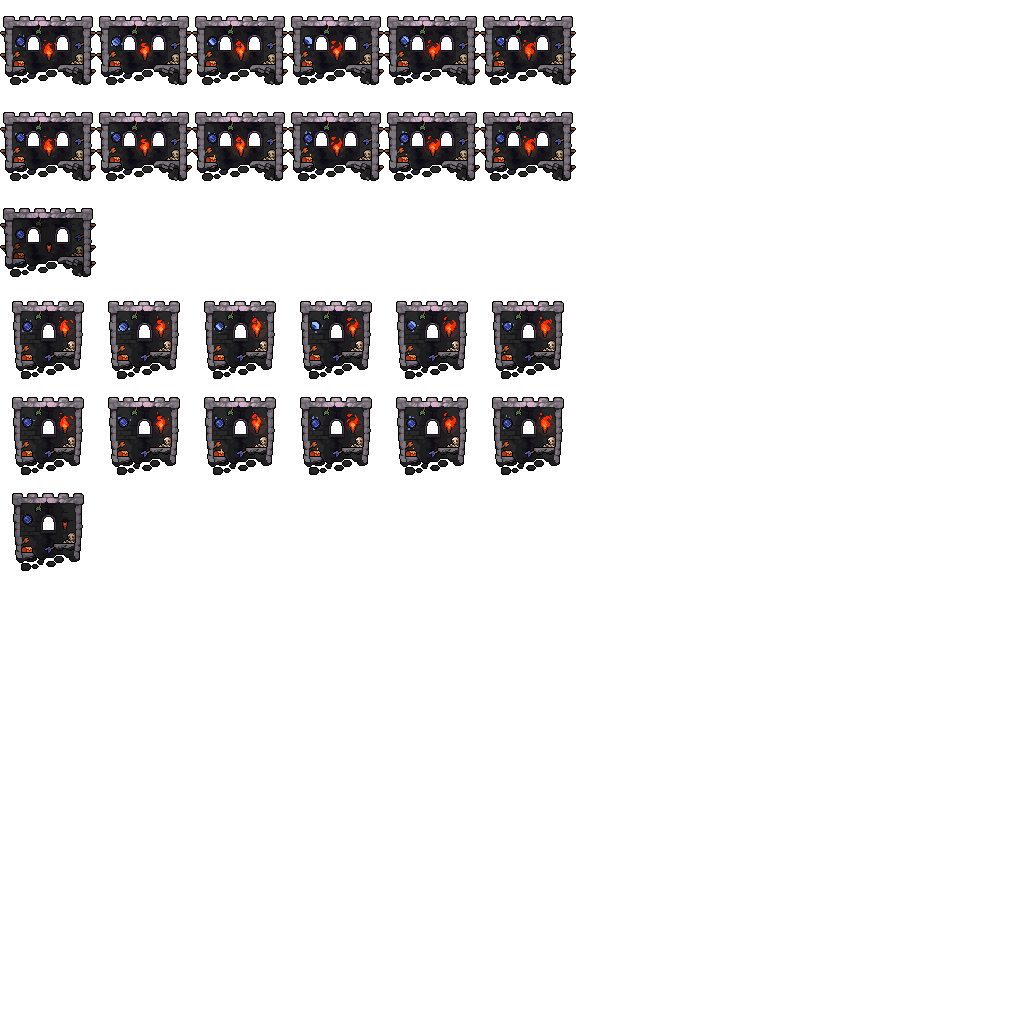
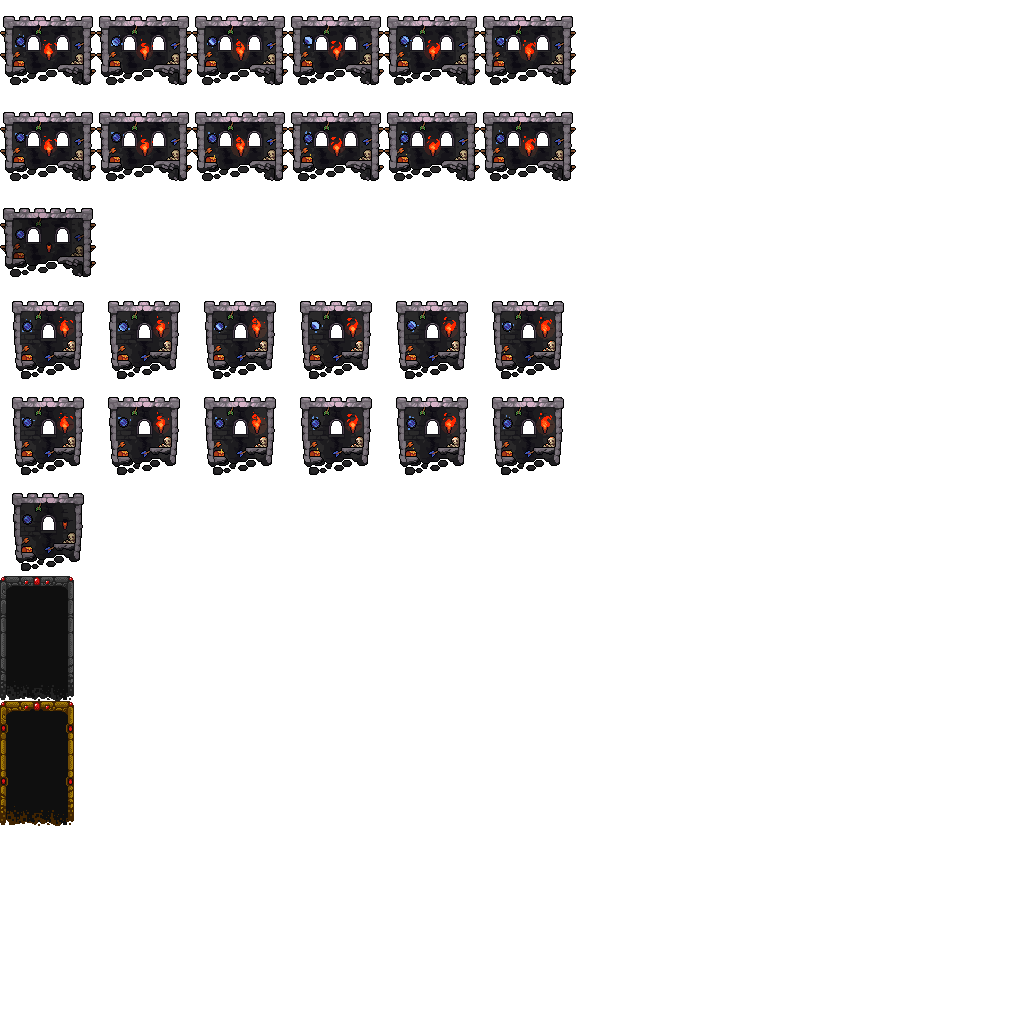
SmallVersusPlayerMatchResults

Changed region(s): [[0.0, 0.5625, 0.0938, 0.8125]]

diff --git a/Core/SmallVersusPlayerMatchResults.cs b/Core/SmallVersusPlayerMatchResults.cs
@@ -1,0 +1,141 @@
+using System;
+using System.Collections;
+using System.Collections.Generic;
+using Microsoft.Xna.Framework;
+using Monocle;
+using MonoMod.Utils;
+using TowerFall;
+
+namespace EightPlayerMod 
+{
+    public class SmallVersusPlayerMatchResults : VersusPlayerMatchResults
+    {
+        public SmallVersusPlayerMatchResults(Session session, VersusMatchResults matchResults, int playerIndex, Vector2 tweenFrom, Vector2 tweenTo, List<AwardInfo> awards) 
+            :base(session, matchResults, playerIndex, tweenFrom, tweenTo, awards)
+        {
+            
+        }
+
+        public static void Load() 
+        {
+            On.TowerFall.VersusPlayerMatchResults.DoSequence += DoSequence_patch;
+        }
+
+        public static void Unload() 
+        {
+            On.TowerFall.VersusPlayerMatchResults.DoSequence -= DoSequence_patch;
+        }
+
+        private static void DoSequence_patch(On.TowerFall.VersusPlayerMatchResults.orig_DoSequence orig, VersusPlayerMatchResults self)
+        {
+            if (self is SmallVersusPlayerMatchResults result) 
+            {
+                result.Add(new Coroutine(result.SmallSequence()));
+                return;
+            }
+            orig(self);
+        }
+
+        private IEnumerator SmallSequence() 
+        {
+            var selfDynamic = DynamicData.For(this);
+            var portrait = selfDynamic.Get<Image>("portrait");
+            var session = selfDynamic.Get<Session>("session");
+            var playerIndex = selfDynamic.Get<int>("playerIndex");
+            var awards = selfDynamic.Get<List<AwardInfo>>("awards");
+            yield return 30;
+			Vector2 end2 = portrait.Position + Vector2.UnitY * (portrait.Height / 2f + 2f);
+			Vector2 start2 = end2 + Vector2.UnitX * -20f;
+			ulong kills = session.MatchStats[playerIndex].Kills.Kills;
+			ulong deaths = session.MatchStats[playerIndex].Deaths.Total - session.MatchStats[playerIndex].Deaths.Environment;
+
+            var killDeathSelf = new OutlineText(TFGame.Font, $"{kills}/{deaths}");
+			killDeathSelf.Color = Color.Transparent;
+			killDeathSelf.OutlineColor = Color.Transparent;
+			Add(killDeathSelf);
+			Tween tween = Tween.Create(Tween.TweenMode.Oneshot, Ease.CubeOut, 30, true);
+			tween.OnUpdate = delegate(Tween t)
+			{
+				killDeathSelf.Position = Vector2.Lerp(start2, end2, t.Eased);
+				killDeathSelf.Color = Color.White * t.Eased;
+				killDeathSelf.OutlineColor = Color.Black * t.Eased * t.Eased;
+			};
+            Add(tween);
+
+			yield return 30;
+			int num5;
+			for (int i = 0; i < awards.Count; i = num5 + 1)
+			{
+				AwardInfo awardInfo = awards[i];
+				Vector2 iconEnd = portrait.Position + Vector2.UnitY * (portrait.Height / 2f + 16f + (float)(i * 15));
+				Vector2 iconStart = iconEnd + Vector2.UnitX * -20f;
+				Sprite<int> icon = awardInfo.GetSprite(false);
+				icon.CenterOrigin();
+				icon.Position = iconStart;
+				icon.Scale = Vector2.One * 1.5f;
+				icon.Color = Color.Transparent;
+				icon.Play(0, false);
+				int anim = 0;
+				icon.OnAnimationComplete = delegate(Sprite<int> s)
+				{
+					if (!icon.Looping)
+					{
+						Sprite<int> icon2 = icon;
+						int num6 = anim + 1;
+						anim = num6;
+						icon2.Play(num6, false);
+					}
+				};
+				this.Add(icon);
+				tween = Tween.Create(Tween.TweenMode.Oneshot, Ease.CubeOut, 20, true);
+				tween.OnUpdate = delegate(Tween t)
+				{
+					icon.Color = Color.White * t.Eased;
+					icon.Rotation = MathHelper.Lerp(-0.34906584f, 0f, t.Eased);
+					icon.Position = Vector2.Lerp(iconStart, iconEnd, t.Eased);
+				};
+				tween.OnComplete = delegate(Tween t)
+				{
+					Tween tween2 = Tween.Create(Tween.TweenMode.Oneshot, Ease.CubeIn, 20, true);
+					tween2.OnUpdate = delegate(Tween tt)
+					{
+						icon.Scale = Vector2.One * MathHelper.Lerp(1.5f, 1f, tt.Eased);
+					};
+					Add(tween2);
+				};
+				Add(tween);
+				if (i == 0)
+				{
+					Sounds.sfx_statscreenReward1.Play(this.X, 1f);
+				}
+				else if (i == 1)
+				{
+					Sounds.sfx_statscreenReward2.Play(this.X, 1f);
+				}
+				else
+				{
+					Sounds.sfx_statscreenReward3.Play(this.X, 1f);
+				}
+				yield return 40;
+				num5 = i;
+			}
+			this.Finished = true;
+			yield break;
+        }
+
+        public void AsSmall(bool won) 
+        {
+            var rect = this.GetFirst<DrawRectangle>();
+            Remove(rect);
+            var privateData = DynamicData.For(this);
+            var portrait = privateData.Get<Image>("portrait");
+            var gem = privateData.Get<Sprite<string>>("gem");
+            portrait.Scale = Vector2.One * 0.7f;
+            var bg = privateData.Get<Image>("bg");
+            bg.SwapSubtexture(EightPlayerModule.Instance.EightPlayerAtlas[won ? "portrait/gold" : "portrait/silver"]);
+            portrait.Position.Y -= 10f;
+            gem.Scale = Vector2.One * 0.7f;
+            gem.Position.Y += 5f;
+        }
+    }
+}

diff --git a/Core/TreasureSpawner.cs b/Core/TreasureSpawner.cs
@@ -263,12 +263,12 @@ namespace EightPlayerMod
                 {
                     array2 = new Vector2[6]
                     {
-                        new Vector2(100f, 70f),
-                        new Vector2(180f, 70f),
-                        new Vector2(260f, 70f),
-                        new Vector2(160f, 180f),
-                        new Vector2(240f, 180f),
-                        new Vector2(320f, 180f)
+                        new Vector2(100f, 105f),
+                        new Vector2(180f, 105f),
+                        new Vector2(260f, 105f),
+                        new Vector2(160f, 210f),
+                        new Vector2(240f, 210f),
+                        new Vector2(320f, 210f)
                     };
                     array = new Vector2[6];
                     for (int i = 0; i < 3; i++)
@@ -284,13 +284,13 @@ namespace EightPlayerMod
                 {
                     array2 = new Vector2[7]
                     {
-                        new Vector2(90f, 70f),
-                        new Vector2(170f, 70f),
-                        new Vector2(250f, 70f),
-                        new Vector2(330f, 70f),
-                        new Vector2(130f, 180f),
-                        new Vector2(210f, 180f),
-                        new Vector2(290f, 180f)
+                        new Vector2(90f, 105f),
+                        new Vector2(170f, 105f),
+                        new Vector2(250f, 105f),
+                        new Vector2(330f, 105f),
+                        new Vector2(130f, 210f),
+                        new Vector2(210f, 210f),
+                        new Vector2(290f, 210f)
                     };
                     array = new Vector2[7];
                     for (int k = 0; k < 4; k++)
@@ -310,14 +310,14 @@ namespace EightPlayerMod
                     }
                     array2 = new Vector2[8]
                     {
-                        new Vector2(70f, 70f),
-                        new Vector2(150f, 70f),
-                        new Vector2(230f, 70f),
-                        new Vector2(310f, 70f),
-                        new Vector2(110f, 180f),
-                        new Vector2(190f, 180f),
-                        new Vector2(270f, 180f),
-                        new Vector2(350f, 180f)
+                        new Vector2(70f, 105f),
+                        new Vector2(150f, 105f),
+                        new Vector2(230f, 105f),
+                        new Vector2(310f, 105f),
+                        new Vector2(110f, 210f),
+                        new Vector2(190f, 210f),
+                        new Vector2(270f, 210f),
+                        new Vector2(350f, 210f)
                     };
                     array = new Vector2[8];
                     for (int m = 0; m < 4; m++)
@@ -350,9 +350,21 @@ namespace EightPlayerMod
                 {
                     if (TFGame.Players[num2])
                     {
-                        VersusPlayerMatchResults versusPlayerMatchResults = new VersusPlayerMatchResults(session, self, num2, array[playerResults.Count], array2[playerResults.Count], awards[num2]);
-                        session.CurrentLevel.Add(versusPlayerMatchResults);
-                        playerResults.Add(versusPlayerMatchResults);
+                        if (TFGame.PlayerAmount >= 6) 
+                        {
+                            var versusPlayerMatchResults = new SmallVersusPlayerMatchResults(session, self, num2, array[playerResults.Count], array2[playerResults.Count], awards[num2]);
+                            var won = session.MatchStats[num2].Won;
+                            session.CurrentLevel.Add(versusPlayerMatchResults);
+                            versusPlayerMatchResults.AsSmall(won);
+                            playerResults.Add(versusPlayerMatchResults);
+                        }
+                        else 
+                        {
+                            VersusPlayerMatchResults versusPlayerMatchResults = new VersusPlayerMatchResults(session, self, num2, array[playerResults.Count], array2[playerResults.Count], awards[num2]);
+                            session.CurrentLevel.Add(versusPlayerMatchResults);
+                            playerResults.Add(versusPlayerMatchResults);
+                        }
+
                     }
                 }
                 DynamicData.For(self).Set("playerResults", playerResults);

diff --git a/Core/VersusAwards.cs b/Core/VersusAwards.cs
@@ -1,0 +1,48 @@
+using System;
+using MonoMod.Cil;
+
+namespace EightPlayerMod 
+{
+    public static class VersusAwardsPatch
+    {
+        public static void Load() 
+        {
+            IL.TowerFall.VersusAwards.GetAwards += GetAwards_patch;
+            IL.TowerFall.VersusAwards.AssignAward += AssignAward_patch;
+        }
+
+        public static void Unload() 
+        {
+            IL.TowerFall.VersusAwards.GetAwards -= GetAwards_patch;
+            IL.TowerFall.VersusAwards.AssignAward -= AssignAward_patch;
+        }
+
+        private static void AssignAward_patch(ILContext ctx)
+        {
+            var cursor = new ILCursor(ctx);
+
+            while (cursor.TryGotoNext(MoveType.After, instr => instr.MatchLdcI4(4))) 
+            {
+                cursor.EmitDelegate<Func<int, int>>(x => {
+                    if (EightPlayerModule.IsEightPlayer)
+                        return 8;
+                    return x;
+                });
+            }
+        }
+
+        private static void GetAwards_patch(ILContext ctx)
+        {
+            var cursor = new ILCursor(ctx);
+
+            while (cursor.TryGotoNext(MoveType.After, instr => instr.MatchLdcI4(4))) 
+            {
+                cursor.EmitDelegate<Func<int, int>>(x => {
+                    if (EightPlayerModule.IsEightPlayer)
+                        return 8;
+                    return x;
+                });
+            }
+        }
+    }
+}

diff --git a/EightPlayerModule.cs b/EightPlayerModule.cs
@@ -84,6 +84,8 @@ namespace EightPlayerMod
             OrbLogicPatch.Load();
             WideQuestTowerStats.Load();
             QuestSavePatch.Load();
+            SmallVersusPlayerMatchResults.Load();
+            VersusAwardsPatch.Load();
 
             typeof(ModExports).ModInterop();
         }
@@ -117,6 +119,8 @@ namespace EightPlayerMod
             OrbLogicPatch.Unload();
             WideQuestTowerStats.Unload();
             QuestSavePatch.Unload();
+            SmallVersusPlayerMatchResults.Unload();
+            VersusAwardsPatch.Unload();
         }
     }
 
